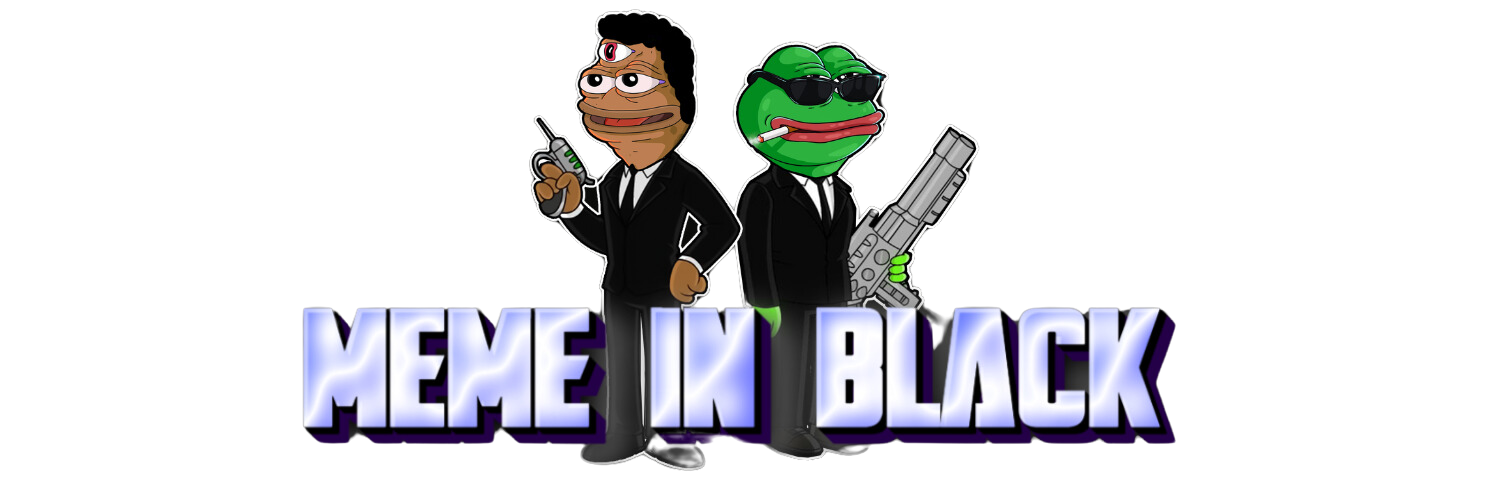
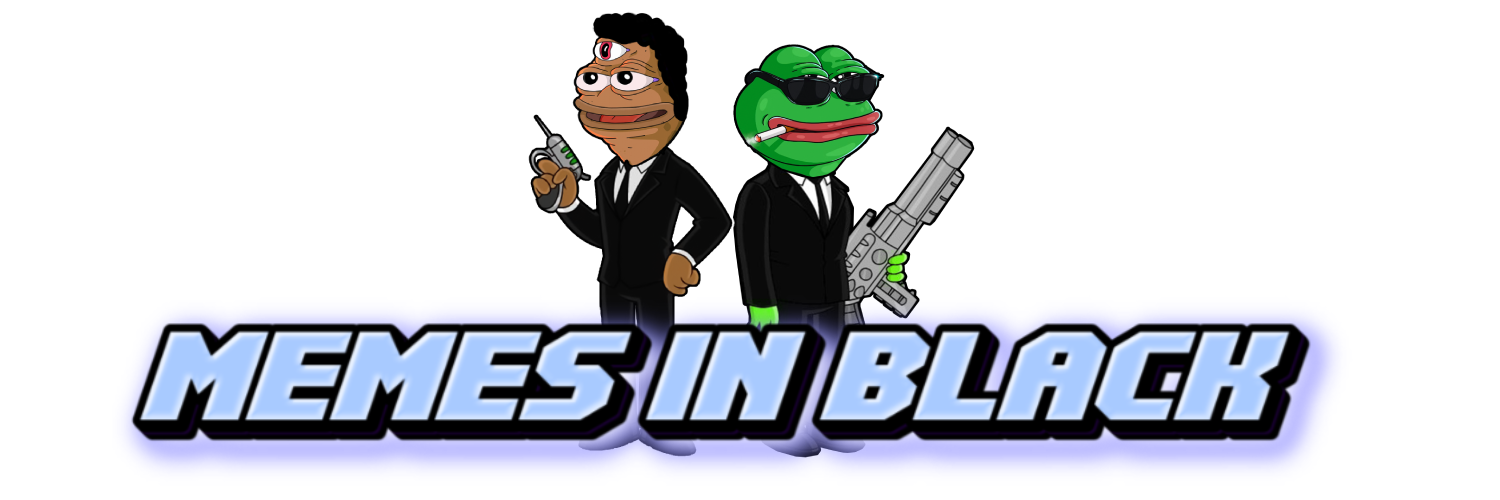
1

Changed region(s): [[0.0613, 0.03, 0.8893, 0.96], [0.3987, 0.0, 0.4293, 0.03]]

diff --git a/index.html b/index.html
@@ -4,10 +4,10 @@
 <meta charset="UTF-8">
 <meta name="viewport" content="width=device-width, initial-scale=1">
 	 <link rel="profile" href="https://gmpg.org/xfn/11"> 
-	 <title>MEME IN BLACK</title>
+	 <title>MEMES IN BLACK</title>
 <meta name='robots' content='max-image-preview:large' />
-<link rel="alternate" type="application/rss+xml" title="MEME IN BLACK &raquo; Feed" href="./pepeinblack.vip/feed/" />
-<link rel="alternate" type="application/rss+xml" title="MEME IN BLACK &raquo; Comments Feed" href="./pepeinblack.vip/comments/feed/" />
+<link rel="alternate" type="application/rss+xml" title="MEMES IN BLACK &raquo; Feed" href="./pepeinblack.vip/feed/" />
+<link rel="alternate" type="application/rss+xml" title="MEMES IN BLACK &raquo; Comments Feed" href="./pepeinblack.vip/comments/feed/" />
 <script>
 window._wpemojiSettings = {"baseUrl":"https:\/\/s.w.org\/images\/core\/emoji\/15.0.3\/72x72\/","ext":".png","svgUrl":"https:\/\/s.w.org\/images\/core\/emoji\/15.0.3\/svg\/","svgExt":".svg","source":{"concatemoji":"https:\/\/pepeinblack.vip\/wp-includes\/js\/wp-emoji-release.min.js?ver=6.6.2"}};
 /*! This file is auto-generated */
@@ -191,12 +191,12 @@ class="post-9 page type-page status-publish ast-article-single" id="post-9" item
 </svg>				</a>
 				</span>
 							<span class="elementor-grid-item">
-					<a class="elementor-icon elementor-social-icon elementor-social-icon- elementor-animation-shrink elementor-repeater-item-f9141d6" href="https://x.com/mibagencysol" target="_blank">
+					<a class="elementor-icon elementor-social-icon elementor-social-icon- elementor-animation-shrink elementor-repeater-item-f9141d6" href="https://x.com/mibcoinsol" target="_blank">
 						<span class="elementor-screen-only"></span>
 						<svg fill="#fff" width="800px" height="800px" viewBox="0 0 24 24" id="twitter" data-name="Flat Color" xmlns="http://www.w3.org/2000/svg" class="icon flat-color"><path id="primary" d="M21.63,6.92a1,1,0,0,0-.83-.2,8.31,8.31,0,0,1-1.1.17,4.49,4.49,0,0,0-8.55.52c-2.73.67-5.4-2.07-5.43-2.1a1,1,0,0,0-1-.27,1,1,0,0,0-.7.8,11.69,11.69,0,0,0,1.51,8.67A7.25,7.25,0,0,1,3,15a1,1,0,0,0-.89,1.46C2.3,16.83,4.18,20,11.58,20c5.84,0,8-5.2,8.36-8.38A4,4,0,0,0,22,7.7,1,1,0,0,0,21.63,6.92Z" style="fill: rgb(255, 255, 255);"></path></svg>				</a>
 				</span>
 							<span class="elementor-grid-item">
-					<a class="elementor-icon elementor-social-icon elementor-social-icon-wordpress elementor-animation-shrink elementor-repeater-item-974aea9" target="_blank" href="https://pump.fun/fB4QuKpUCSLnCTyWnaTjnUa7mpoeanKznZpMZ7Qpump">
+					<a class="elementor-icon elementor-social-icon elementor-social-icon-wordpress elementor-animation-shrink elementor-repeater-item-974aea9" target="_blank" href="https://pump.fun/eTf498RtSZgTCgWdM8oxzNesTGjyNFLfqcGahgTEump">
 						<span class="elementor-screen-only">WordPress</span>
 						<svg fill="#000000" width="800px" height="800px" viewBox="0 0 24 24" xmlns="http://www.w3.org/2000/svg">
 
@@ -290,7 +290,7 @@ class="post-9 page type-page status-publish ast-article-single" id="post-9" item
 				</div>
 				<div class="elementor-element elementor-element-7bbcb7b elementor-widget__width-initial ha-has-bg-overlay elementor-widget elementor-widget-heading" data-id="7bbcb7b" data-element_type="widget" data-widget_type="heading.default">
 				<div class="elementor-widget-container">
-			<h2 class="elementor-heading-title elementor-size-default">Don’t worry about that meme you regret sharing from 2013. The MEME IN BLACK squad’s got you. One flash from their "Meme-alyzer" and boom — your timeline is cleansed of all embarrassing posts.</h2>		</div>
+			<h2 class="elementor-heading-title elementor-size-default">Don’t worry about that meme you regret sharing from 2013. The MEMES IN BLACK squad’s got you. One flash from their "Meme-alyzer" and boom — your timeline is cleansed of all embarrassing posts.</h2>		</div>
 				</div>
 				<div class="elementor-element elementor-element-82b2890 elementor-widget-laptop__width-initial elementor-widget elementor-widget-heading" data-id="82b2890" data-element_type="widget" data-widget_type="heading.default">
 				<div class="elementor-widget-container">
@@ -316,7 +316,7 @@ class="post-9 page type-page status-publish ast-article-single" id="post-9" item
 				</div>
 				<div class="elementor-element elementor-element-55542bf ha-has-bg-overlay elementor-widget elementor-widget-heading" data-id="55542bf" data-element_type="widget" data-widget_type="heading.default">
 				<div class="elementor-widget-container">
-			<h2 class="elementor-heading-title elementor-size-default">CA: fB4QuKpUCSLnCTyWnaTjnUa7mpoeanKznZpMZ7Qpump</h2>		</div>
+			<h2 class="elementor-heading-title elementor-size-default">CA: eTf498RtSZgTCgWdM8oxzNesTGjyNFLfqcGahgTEump</h2>		</div>
 				</div>
 		<div class="elementor-element elementor-element-4bd7e37 e-con-full e-flex e-con e-child" data-id="4bd7e37" data-element_type="container" data-settings="{&quot;_ha_eqh_enable&quot;:false}">
 		<div class="elementor-element elementor-element-0addc6a e-con-full e-flex e-con e-child" data-id="0addc6a" data-element_type="container" data-settings="{&quot;_ha_eqh_enable&quot;:false}">
@@ -412,12 +412,12 @@ class="post-9 page type-page status-publish ast-article-single" id="post-9" item
 				</div>
 				<div class="elementor-element elementor-element-2657c95 elementor-widget-tablet__width-initial ha-has-bg-overlay elementor-widget elementor-widget-heading" data-id="2657c95" data-element_type="widget" data-widget_type="heading.default">
 				<div class="elementor-widget-container">
-			<h2 class="elementor-heading-title elementor-size-default">if you ever spot something too cringe to exist, call the <b>MEME IN BLACK</b>. <br>Just don’t expect to remember anything after. </h2>		</div>
+			<h2 class="elementor-heading-title elementor-size-default">if you ever spot something too cringe to exist, call the <b>MEMES IN BLACK</b>. <br>Just don’t expect to remember anything after. </h2>		</div>
 				</div>
 		<div class="elementor-element elementor-element-d5c1315 e-con-full e-flex e-con e-child" data-id="d5c1315" data-element_type="container" data-settings="{&quot;_ha_eqh_enable&quot;:false}">
 				<div class="elementor-element elementor-element-91bfe9f ha-has-bg-overlay elementor-widget elementor-widget-heading" data-id="91bfe9f" data-element_type="widget" data-widget_type="heading.default">
 				<div class="elementor-widget-container">
-			<h2 class="elementor-heading-title elementor-size-default"><a href="https://x.com/mibagencysol" target="_blank">Twitter</a></h2>		</div>
+			<h2 class="elementor-heading-title elementor-size-default"><a href="https://x.com/mibcoinsol" target="_blank">Twitter</a></h2>		</div>
 				</div>
 				<div class="elementor-element elementor-element-47c5fd1 ha-has-bg-overlay elementor-widget elementor-widget-heading" data-id="47c5fd1" data-element_type="widget" data-widget_type="heading.default">
 				<div class="elementor-widget-container">
@@ -425,7 +425,7 @@ class="post-9 page type-page status-publish ast-article-single" id="post-9" item
 				</div>
 				<div class="elementor-element elementor-element-84610a7 ha-has-bg-overlay elementor-widget elementor-widget-heading" data-id="84610a7" data-element_type="widget" data-widget_type="heading.default">
 				<div class="elementor-widget-container">
-			<h2 class="elementor-heading-title elementor-size-default"><a href="https://pump.fun/fB4QuKpUCSLnCTyWnaTjnUa7mpoeanKznZpMZ7Qpump" target="_blank">Pump.fun</a></h2>		</div>
+			<h2 class="elementor-heading-title elementor-size-default"><a href="https://pump.fun/eTf498RtSZgTCgWdM8oxzNesTGjyNFLfqcGahgTEump" target="_blank">Pump.fun</a></h2>		</div>
 				</div>
 				<div class="elementor-element elementor-element-2715845 ha-has-bg-overlay elementor-widget elementor-widget-heading" data-id="2715845" data-element_type="widget" data-widget_type="heading.default">
 				<div class="elementor-widget-container">
@@ -516,7 +516,7 @@ var ElementPackConfig = {"ajaxurl":"https:\/\/pepeinblack.vip\/wp-admin\/admin-a
 <script src="./pepeinblack.vip/wp-content/plugins/elementor/assets/js/frontend-modules.min.js?ver=3.24.0" id="elementor-frontend-modules-js"></script>
 <script src="./pepeinblack.vip/wp-includes/js/jquery/ui/core.min.js?ver=1.13.3" id="jquery-ui-core-js"></script>
 <script id="elementor-frontend-js-before">
-var elementorFrontendConfig = {"environmentMode":{"edit":false,"wpPreview":false,"isScriptDebug":false},"i18n":{"shareOnFacebook":"Share on Facebook","shareOnTwitter":"Share on Twitter","pinIt":"Pin it","download":"Download","downloadImage":"Download image","fullscreen":"Fullscreen","zoom":"Zoom","share":"Share","playVideo":"Play Video","previous":"Previous","next":"Next","close":"Close","a11yCarouselWrapperAriaLabel":"Carousel | Horizontal scrolling: Arrow Left & Right","a11yCarouselPrevSlideMessage":"Previous slide","a11yCarouselNextSlideMessage":"Next slide","a11yCarouselFirstSlideMessage":"This is the first slide","a11yCarouselLastSlideMessage":"This is the last slide","a11yCarouselPaginationBulletMessage":"Go to slide"},"is_rtl":false,"breakpoints":{"xs":0,"sm":480,"md":768,"lg":1025,"xl":1440,"xxl":1600},"responsive":{"breakpoints":{"mobile":{"label":"Mobile Portrait","value":767,"default_value":767,"direction":"max","is_enabled":true},"mobile_extra":{"label":"Mobile Landscape","value":880,"default_value":880,"direction":"max","is_enabled":false},"tablet":{"label":"Tablet Portrait","value":1024,"default_value":1024,"direction":"max","is_enabled":true},"tablet_extra":{"label":"Tablet Landscape","value":1200,"default_value":1200,"direction":"max","is_enabled":false},"laptop":{"label":"Laptop","value":1366,"default_value":1366,"direction":"max","is_enabled":true},"widescreen":{"label":"Widescreen","value":2400,"default_value":2400,"direction":"min","is_enabled":false}}},"version":"3.24.0","is_static":false,"experimentalFeatures":{"additional_custom_breakpoints":true,"container":true,"container_grid":true,"e_swiper_latest":true,"e_nested_atomic_repeaters":true,"e_onboarding":true,"theme_builder_v2":true,"home_screen":true,"ai-layout":true,"landing-pages":true,"nested-elements":true,"link-in-bio":true,"floating-buttons":true,"page-transitions":true,"notes":true,"loop":true,"form-submissions":true,"e_scroll_snap":true},"urls":{"assets":"https:\/\/pepeinblack.vip\/wp-content\/plugins\/elementor\/assets\/","ajaxurl":"https:\/\/pepeinblack.vip\/wp-admin\/admin-ajax.php"},"nonces":{"floatingButtonsClickTracking":"e6df2a7842"},"swiperClass":"swiper","settings":{"page":[],"editorPreferences":[]},"kit":{"active_breakpoints":["viewport_mobile","viewport_tablet","viewport_laptop"],"body_background_background":"classic","global_image_lightbox":"yes","lightbox_enable_counter":"yes","lightbox_enable_fullscreen":"yes","lightbox_enable_zoom":"yes","lightbox_enable_share":"yes","lightbox_title_src":"title","lightbox_description_src":"description"},"post":{"id":9,"title":"MEME IN BLACK","excerpt":"","featuredImage":false}};
+var elementorFrontendConfig = {"environmentMode":{"edit":false,"wpPreview":false,"isScriptDebug":false},"i18n":{"shareOnFacebook":"Share on Facebook","shareOnTwitter":"Share on Twitter","pinIt":"Pin it","download":"Download","downloadImage":"Download image","fullscreen":"Fullscreen","zoom":"Zoom","share":"Share","playVideo":"Play Video","previous":"Previous","next":"Next","close":"Close","a11yCarouselWrapperAriaLabel":"Carousel | Horizontal scrolling: Arrow Left & Right","a11yCarouselPrevSlideMessage":"Previous slide","a11yCarouselNextSlideMessage":"Next slide","a11yCarouselFirstSlideMessage":"This is the first slide","a11yCarouselLastSlideMessage":"This is the last slide","a11yCarouselPaginationBulletMessage":"Go to slide"},"is_rtl":false,"breakpoints":{"xs":0,"sm":480,"md":768,"lg":1025,"xl":1440,"xxl":1600},"responsive":{"breakpoints":{"mobile":{"label":"Mobile Portrait","value":767,"default_value":767,"direction":"max","is_enabled":true},"mobile_extra":{"label":"Mobile Landscape","value":880,"default_value":880,"direction":"max","is_enabled":false},"tablet":{"label":"Tablet Portrait","value":1024,"default_value":1024,"direction":"max","is_enabled":true},"tablet_extra":{"label":"Tablet Landscape","value":1200,"default_value":1200,"direction":"max","is_enabled":false},"laptop":{"label":"Laptop","value":1366,"default_value":1366,"direction":"max","is_enabled":true},"widescreen":{"label":"Widescreen","value":2400,"default_value":2400,"direction":"min","is_enabled":false}}},"version":"3.24.0","is_static":false,"experimentalFeatures":{"additional_custom_breakpoints":true,"container":true,"container_grid":true,"e_swiper_latest":true,"e_nested_atomic_repeaters":true,"e_onboarding":true,"theme_builder_v2":true,"home_screen":true,"ai-layout":true,"landing-pages":true,"nested-elements":true,"link-in-bio":true,"floating-buttons":true,"page-transitions":true,"notes":true,"loop":true,"form-submissions":true,"e_scroll_snap":true},"urls":{"assets":"https:\/\/pepeinblack.vip\/wp-content\/plugins\/elementor\/assets\/","ajaxurl":"https:\/\/pepeinblack.vip\/wp-admin\/admin-ajax.php"},"nonces":{"floatingButtonsClickTracking":"e6df2a7842"},"swiperClass":"swiper","settings":{"page":[],"editorPreferences":[]},"kit":{"active_breakpoints":["viewport_mobile","viewport_tablet","viewport_laptop"],"body_background_background":"classic","global_image_lightbox":"yes","lightbox_enable_counter":"yes","lightbox_enable_fullscreen":"yes","lightbox_enable_zoom":"yes","lightbox_enable_share":"yes","lightbox_title_src":"title","lightbox_description_src":"description"},"post":{"id":9,"title":"MEMES IN BLACK","excerpt":"","featuredImage":false}};
 </script>
 <script src="./pepeinblack.vip/wp-content/plugins/elementor/assets/js/frontend.min.js?ver=3.24.0" id="elementor-frontend-js"></script>
 <script src="./pepeinblack.vip/wp-content/plugins/pro-elements/assets/js/modules/ep-floating-effects.min.js?ver=5.8.2" id="ep-floating-effects-js"></script>
